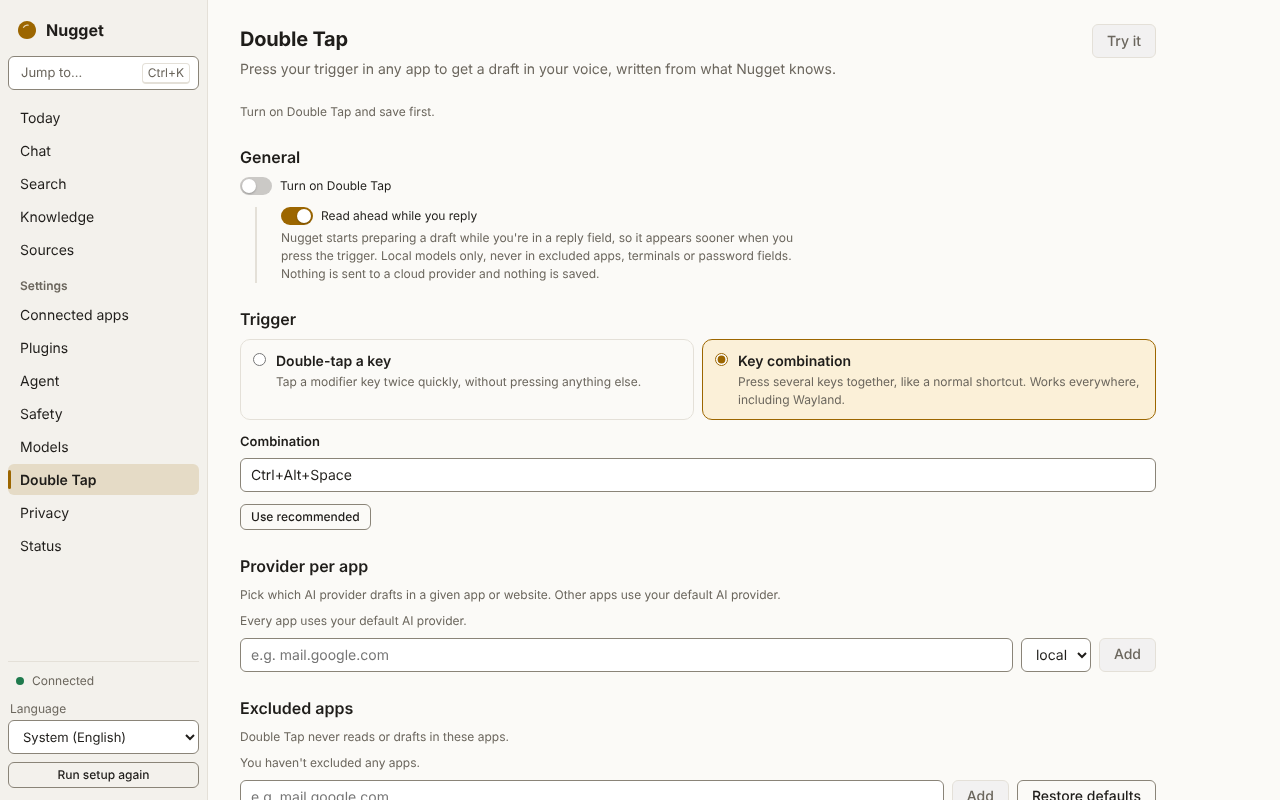
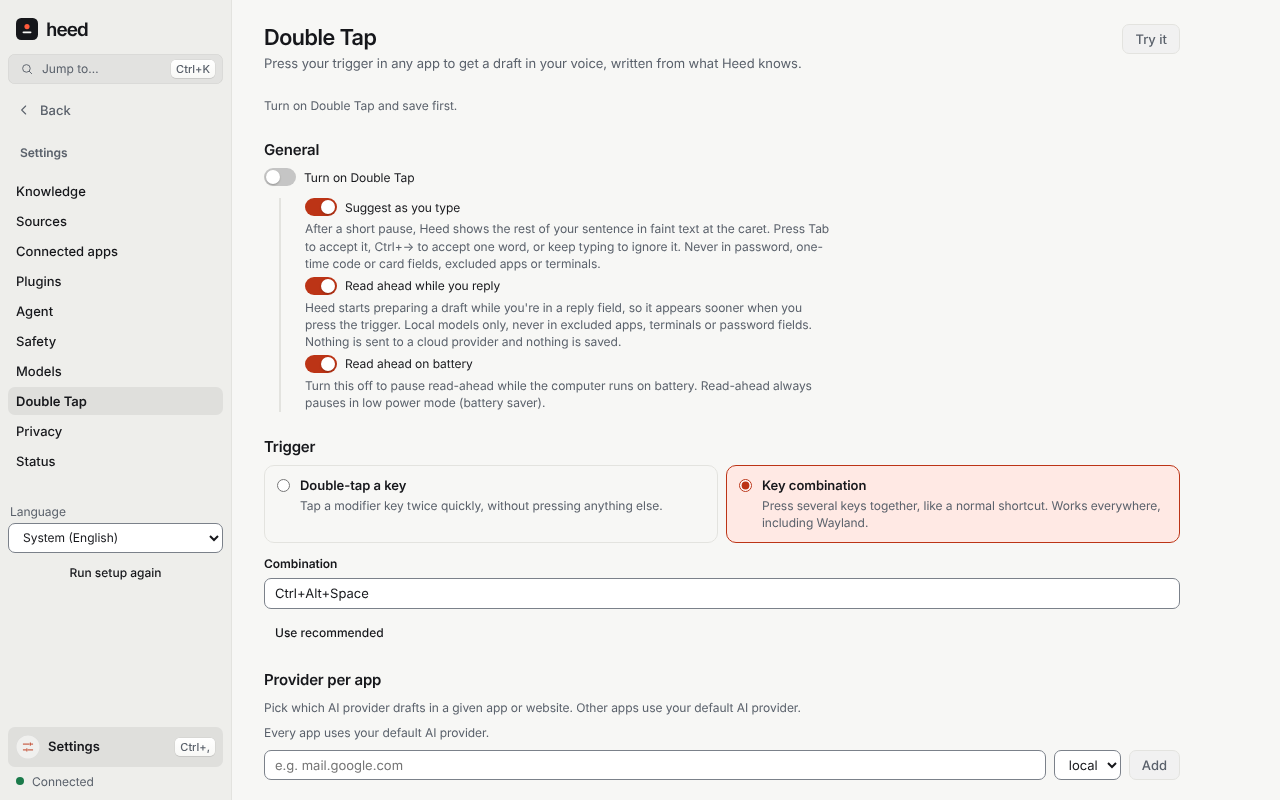
desktop: finish the Heed apply: e2e for the new layout, heed:// in comments, fresh screenshots
Follow-ups to the Heed brand and v3 layout:
- byok walks the new onboarding order.
- The action preview's scrolling diff takes keyboard focus.
- The mark's tile is a step lighter in dark mode.
- The test vault fixture is renamed, and comments name the heed:// scheme.
- README and the user guide show Home and Needs you, with every screenshot retaken in light and
  dark.

Claude-Session: https://claude.ai/code/session_01CTjRStXFPZzPCPXQP42avT

diff --git a/apps/desktop/src/pages/today/ActionDialog.tsx b/apps/desktop/src/pages/today/ActionDialog.tsx
@@ -92,7 +92,7 @@ export function ActionDialog({ card, action, onClose }: { card: CardView; action
           </div>
           {!executed && <p className="muted small">{t("today.action.dryRun")}</p>}
           {preview.diff.length > 0 ? (
-            <ul className="today-diff" aria-label={t("today.action.diffLabel")}>
+            <ul className="today-diff" aria-label={t("today.action.diffLabel")} tabIndex={0}>
               {preview.diff.map((line, i) => (
                 <li key={i} className={`today-diff-${line.op === "add" || line.op === "remove" ? line.op : "context"}`}>
                   <span aria-hidden="true" className="today-diff-marker">

diff --git a/apps/desktop/src/platform/DeepLinks.tsx b/apps/desktop/src/platform/DeepLinks.tsx
@@ -1,5 +1,5 @@
 /**
- * Acts on `nugget://` links and opened `.nuggetplugin` files, already validated by the shell
+ * Acts on `heed://` links and opened `.nuggetplugin` files, already validated by the shell
  * (`src-tauri/src/deeplink.rs`). Takes the waiting link at mount and on each `nugget:deeplink`
  * event. A page just navigates and a search is only typed in (Enter runs it); opening an item or
  * installing a plugin asks first.

diff --git a/apps/desktop/src/hooks.nav.ts b/apps/desktop/src/hooks.nav.ts
@@ -43,7 +43,7 @@ const newChat = channel<void>();
 
 /**
  * Ask the Search page to run `q`, or with `run: false` only to type it in and wait for Enter (a
- * `nugget://search` link never acts by itself). The caller navigates to the page itself.
+ * `heed://search` link never acts by itself). The caller navigates to the page itself.
  */
 export function requestSearch(q: string, run = true): void {
   search.request({ q, run });

diff --git a/apps/desktop/src/api.ts b/apps/desktop/src/api.ts
@@ -2882,7 +2882,7 @@ export const lifecycleApi = {
   togglePause: () => call<ShellInfo>("indexing_pause_toggle"),
 };
 
-/** A validated `nugget://` link or opened `.nuggetplugin` file (see `src-tauri/src/deeplink.rs`). */
+/** A validated `heed://` link or opened `.nuggetplugin` file (see `src-tauri/src/deeplink.rs`). */
 export type DeepLink =
   | { kind: "page"; page: PageId }
   | { kind: "search"; query: string }

diff --git a/apps/desktop/src/test/fixtures.ts b/apps/desktop/src/test/fixtures.ts
@@ -62,7 +62,7 @@ export const knowledgeStatus: KnowledgeStatus = {
   pending_items: 0,
   last_run: now,
   extractor_provider: null,
-  vault: { path: "/home/me/Nugget vault", pages: 2, last_render: now, conflicts: [], invalid: [] },
+  vault: { path: "/home/me/Heed vault", pages: 2, last_render: now, conflicts: [], invalid: [] },
 };
 
 export const graph: GraphView = {

diff --git a/apps/desktop/src/tokens.css b/apps/desktop/src/tokens.css
@@ -181,8 +181,14 @@
   }
 }
 
-/* The mark keeps its graphite tile in both themes. */
+/* The mark keeps its graphite tile in both themes, a step lighter on dark backgrounds. */
 :root {
   --mark-tile: #16171b;
   --mark-line: #f7f7f5;
+}
+
+@media (prefers-color-scheme: dark) {
+  :root {
+    --mark-tile: #2c2d34;
+  }
 }

diff --git a/README.md b/README.md
@@ -38,22 +38,22 @@ regenerate with `pnpm run screenshots` in `apps/desktop`.
 
 <p>
 <picture>
+  <source media="(prefers-color-scheme: dark)" srcset="docs/book/src/images/screenshots/today-dark.png">
+  <img src="docs/book/src/images/screenshots/today-light.png" alt="Home: the ask box and today's brief" width="49%">
+</picture>
+<picture>
+  <source media="(prefers-color-scheme: dark)" srcset="docs/book/src/images/screenshots/needs-dark.png">
+  <img src="docs/book/src/images/screenshots/needs-light.png" alt="Needs you: the list of things that need a reply or a decision, and the selected one with the reasons it is shown" width="49%">
+</picture>
+</p>
+<p>
+<picture>
   <source media="(prefers-color-scheme: dark)" srcset="docs/book/src/images/screenshots/search-dark.png">
   <img src="docs/book/src/images/screenshots/search-light.png" alt="Search: results for Tidewater budget, each with its passage and source" width="49%">
 </picture>
 <picture>
   <source media="(prefers-color-scheme: dark)" srcset="docs/book/src/images/screenshots/chat-dark.png">
   <img src="docs/book/src/images/screenshots/chat-light.png" alt="Chat: an answer about Tidewater Billing with [1] and [2] citations and the sources it was given" width="49%">
-</picture>
-</p>
-<p>
-<picture>
-  <source media="(prefers-color-scheme: dark)" srcset="docs/book/src/images/screenshots/knowledge-why-dark.png">
-  <img src="docs/book/src/images/screenshots/knowledge-why-light.png" alt="Knowledge: the facts about Ada Wexford, one opened with Based on 1 source to show the quoted calendar event" width="49%">
-</picture>
-<picture>
-  <source media="(prefers-color-scheme: dark)" srcset="docs/book/src/images/screenshots/today-dark.png">
-  <img src="docs/book/src/images/screenshots/today-light.png" alt="Today: the morning brief and a card suggesting a reply, with the reasons it is shown" width="49%">
 </picture>
 </p>
 

diff --git a/docs/book/src/images/screenshots/README.md b/docs/book/src/images/screenshots/README.md
@@ -31,11 +31,13 @@ daemon's uptime, so those two change on every run.
 |---|---|---|
 | `welcome` | Setup, first step | `guide/first-run.md` |
 | `status` | Status | `guide/first-run.md` |
-| `today` | Today, after a card refresh | `guide/today.md`, `README.md` |
+| `today` | Home: the ask box and the morning brief | `guide/today.md`, `README.md` |
+| `needs` | Needs you, the card list and reading pane | `README.md` |
+| `connections` | Connections (Heed Cloud) | |
 | `search` | Search for "Tidewater budget" | `guide/search-ask.md`, `README.md` |
 | `chat` | Chat, a cited answer | `guide/search-ask.md`, `README.md` |
 | `knowledge` | Knowledge, Ada Wexford | `guide/knowledge.md` |
-| `knowledge-why` | Knowledge, a fact's evidence (Based on N sources) | `guide/knowledge.md`, `README.md` |
+| `knowledge-why` | Knowledge, a fact's evidence (Based on N sources) | `guide/knowledge.md` |
 | `graph` | Knowledge, the graph view | `guide/knowledge.md` |
 | `sources` | Sources | `guide/sources.md` |
 | `safety` | Safety | `guide/safety.md` |
